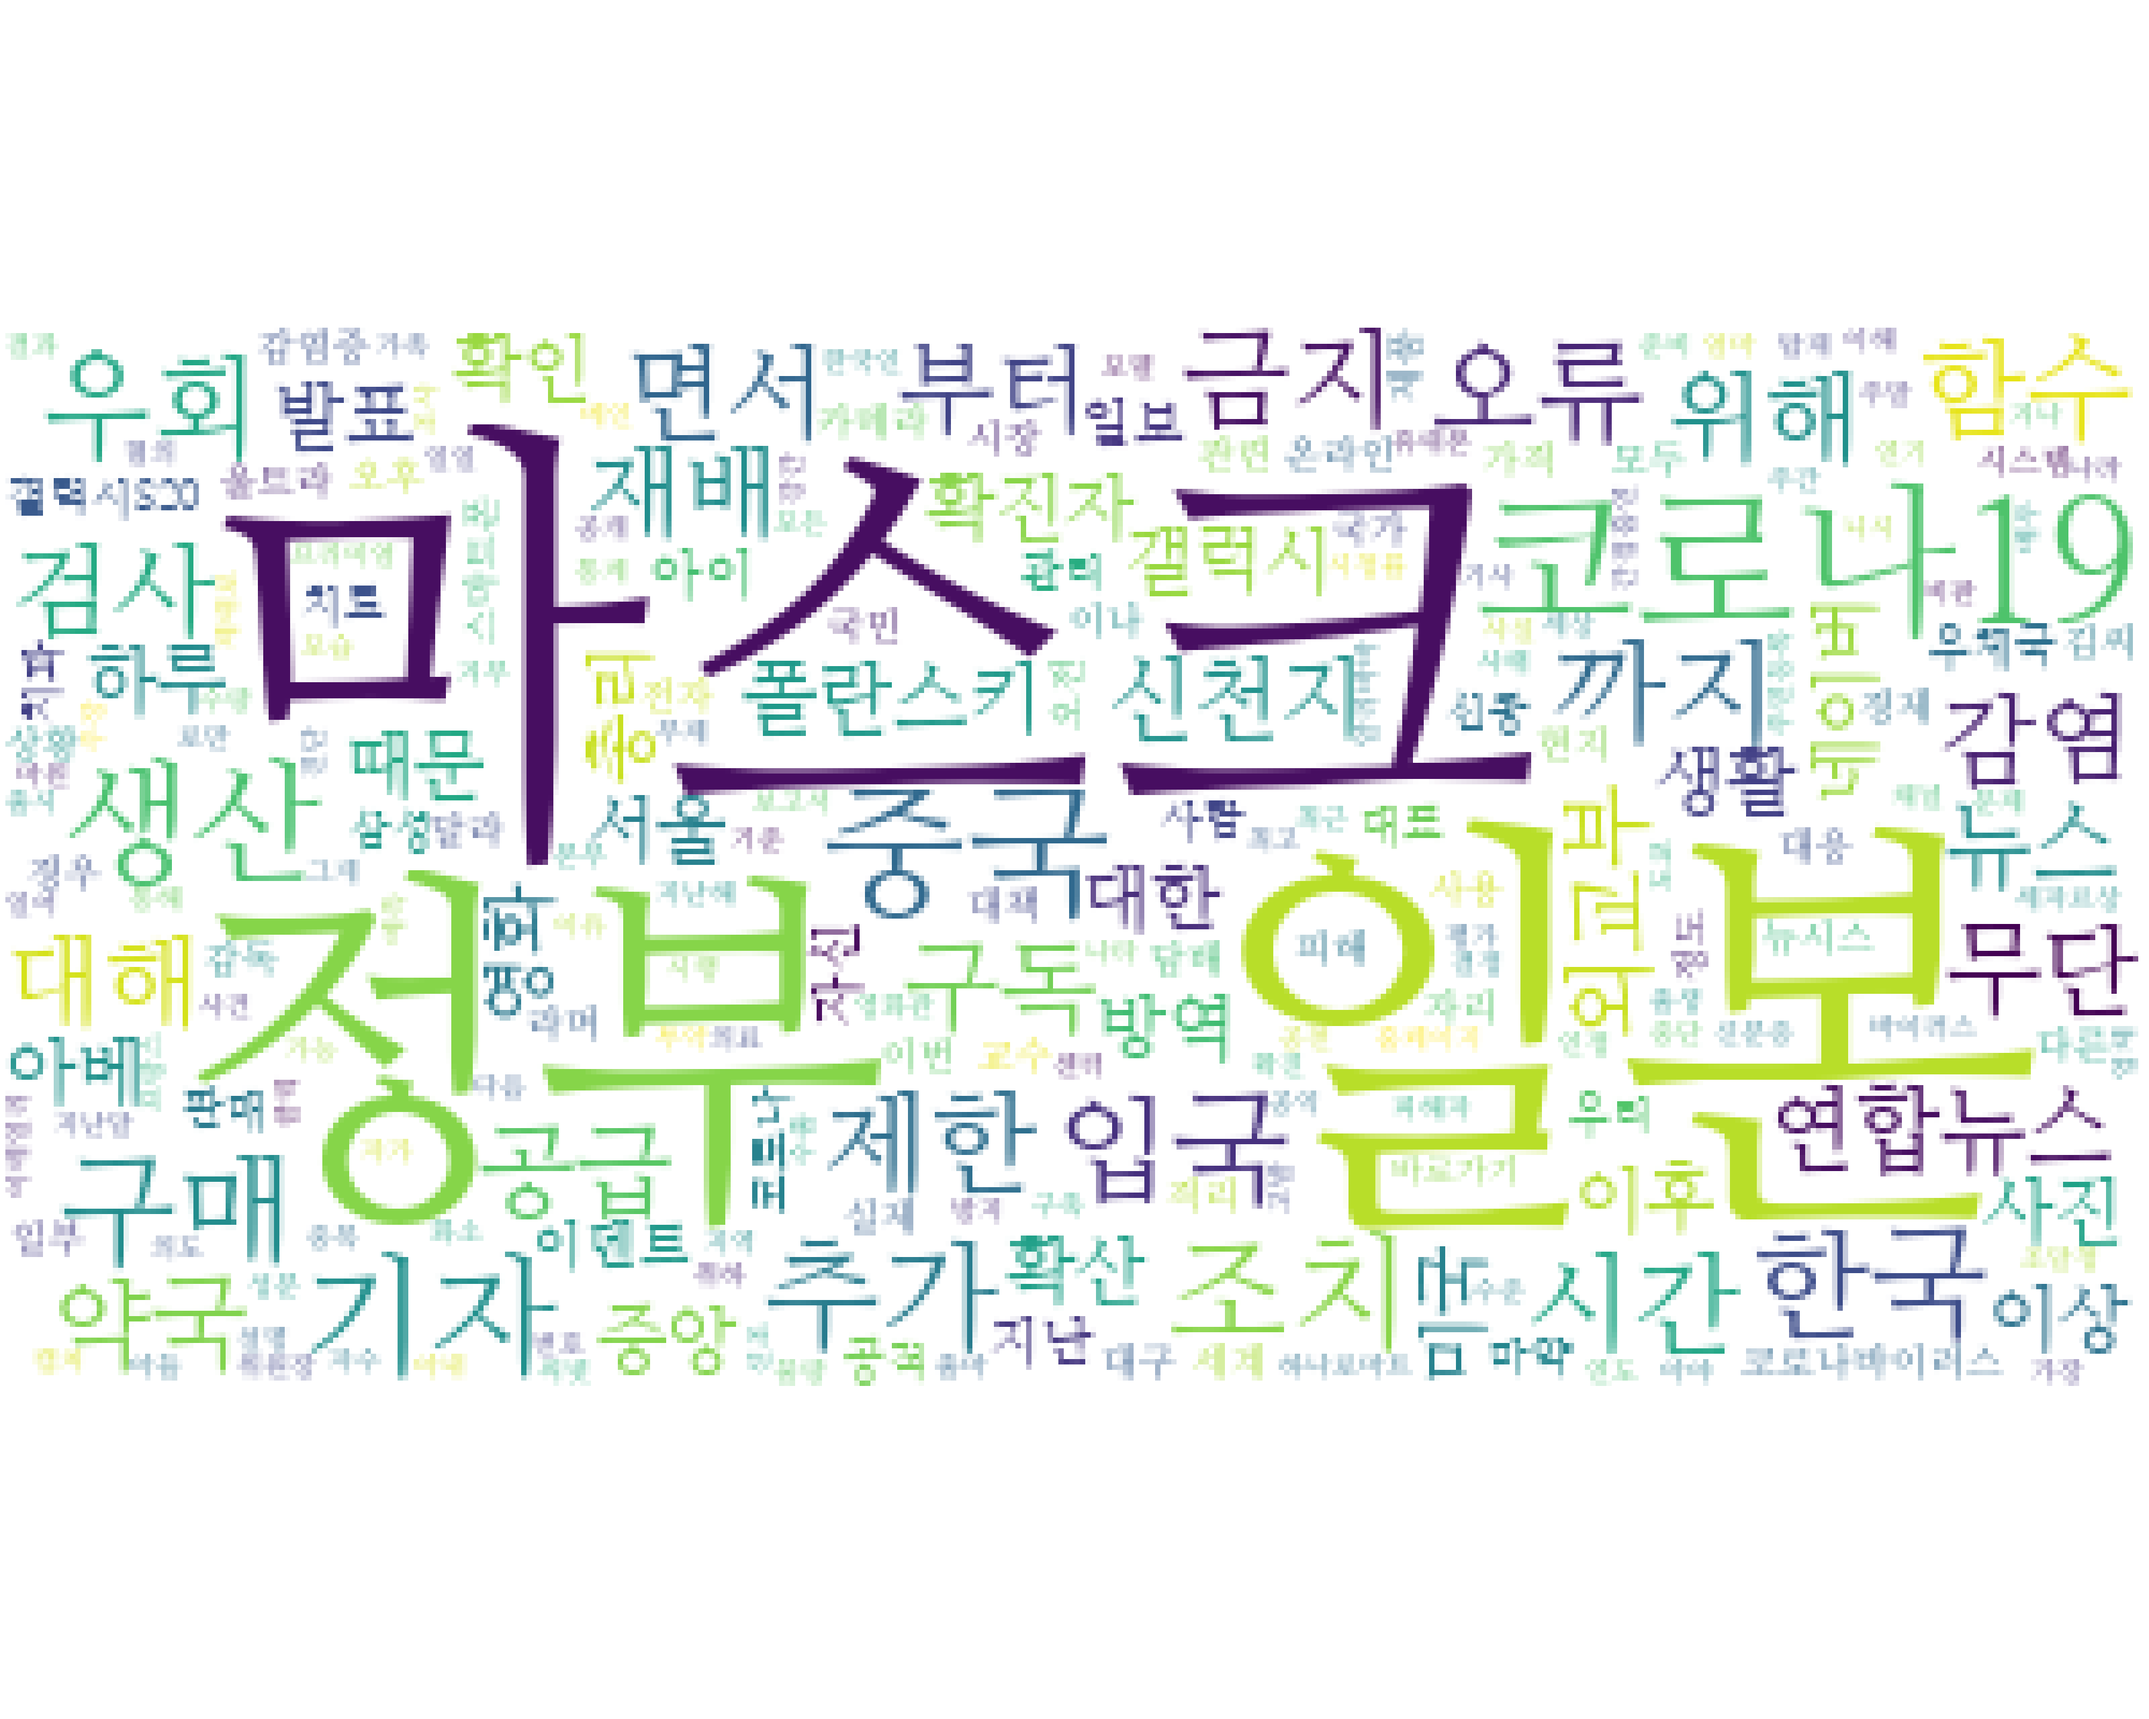
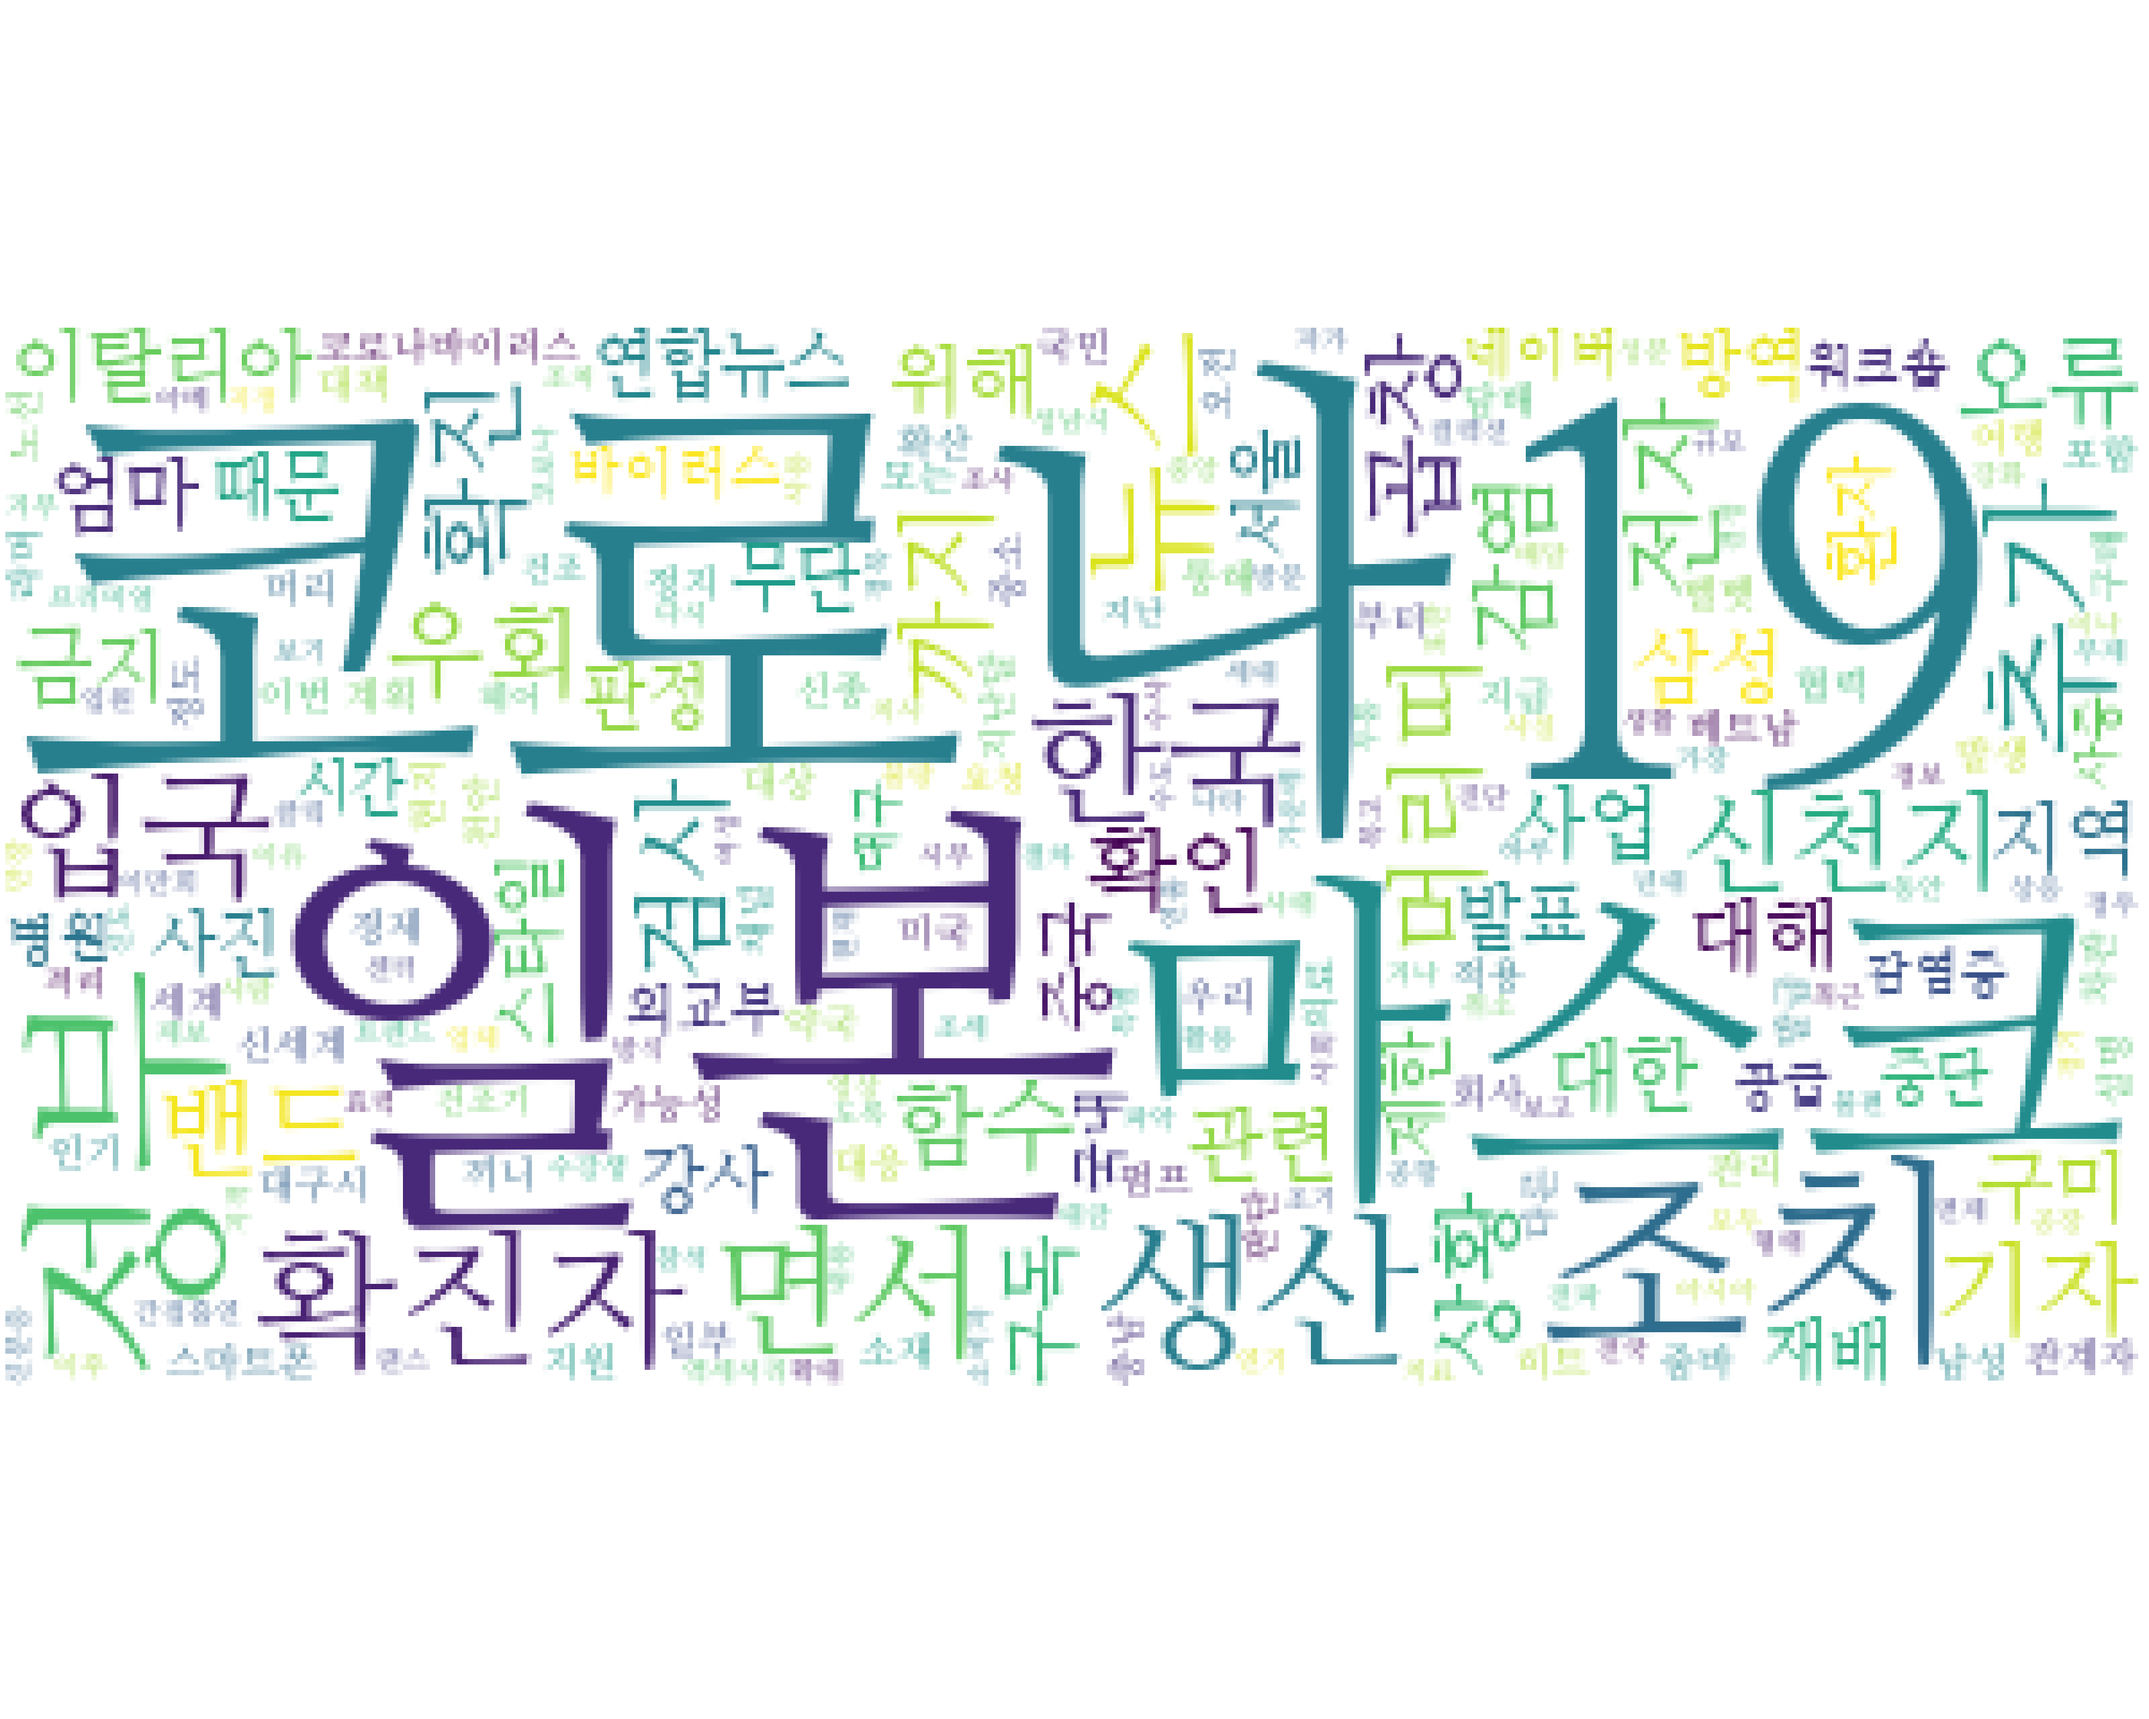
d

diff --git a/templates/about.html b/templates/about.html
@@ -41,6 +41,16 @@
 			</div>
 			<!-- Left Side section end -->
 			<!-- Page start -->
+			<h3> Profile </h3>
+			<div class="card" style="width:500px">
+			  <img class="card-img-top" src="static/img/about/lyt2.jpg" alt="Card image">
+			  <div class="card-img-overlay">
+				<h4 class="card-title">임 영택</h4>
+				<p class="card-text">데이터분석</p>
+				<a href="#" class="btn btn-primary">See Profile</a>
+			  </div>
+			</div>
+			<br>
 
 			<h3> Profile </h3>
 			<div class="card" style="width:500px">
@@ -52,6 +62,7 @@
 			  </div>
 			</div>
 		<br>
+
 			<h3> Profile </h3>
 			<div class="card" style="width:500px">
 			  <img class="card-img-top" src="static/img/about/hdy.jpg" alt="Card image">
@@ -63,16 +74,7 @@
 			</div>
 
 		<br>
-			<h3> Profile </h3>
-			<div class="card" style="width:500px">
-			  <img class="card-img-top" src="static/img/about/lyt2.jpg" alt="Card image">
-			  <div class="card-img-overlay">
-				<h4 class="card-title">임 영택</h4>
-				<p class="card-text">데이터분석</p>
-				<a href="#" class="btn btn-primary">See Profile</a>
-			  </div>
-			</div>
-			<br>
+
 <!--						<div class="page-section">-->
 <!--				<div class="hero-section">-->
 <!--					<div class="hero-scroll">-->

diff --git a/templates/analysis/daum.html b/templates/analysis/daum.html
@@ -32,11 +32,19 @@
 
 					<div class="blog-post-item">
 						<div class="post-date">
+							<h3>07</h3>
+							<p>03<br>2020</p>
+						</div>
+						<img src="static/img/wordcloud/daum/daum_20200307.png" border="0" width="600" height="400"/>
+					<p> 다음뉴스 랭킹 50위까지입니다. 20200307</p>
+
+					<div class="blog-post-item">
+						<div class="post-date">
 							<h3>06</h3>
 							<p>03<br>2020</p>
 						</div>
 						<img src="static/img/wordcloud/daum/daum_20200306.png" border="0" width="600" height="400"/>
-					<p> 다음뉴스 랭킹 50위까지입니다. 20200304</p>
+					<p> 다음뉴스 랭킹 50위까지입니다. 20200306</p>
 
 					<div class="blog-post-item">
 						<div class="post-date">
@@ -44,7 +52,7 @@
 							<p>03<br>2020</p>
 						</div>
 						<img src="static/img/wordcloud/daum/daum_20200305.png" border="0" width="600" height="400"/>
-					<p> 다음뉴스 랭킹 50위까지입니다. 20200304</p>
+					<p> 다음뉴스 랭킹 50위까지입니다. 20200305</p>
 
 					<div class="blog-post-item">
 						<div class="post-date">

diff --git a/templates/Testing/titanic2.html b/templates/Testing/titanic2.html
@@ -13,8 +13,8 @@
   <strong>나이</strong>          {{age}}<br>
   <strong>티켓 요금</strong>          {{Fare}}<br>
   <strong>승선 위치</strong>          {{embarked}}<br>
-  <strong>이름 (성) </strong>          {{name}}<br>
-  <strong>혼자탑승 or 가족과 탑승</strong>          {{isalone}}<br>
+  <strong>결혼 여부 </strong>          {{name}}<br>
+  <strong>동승 탑승여부 0:alone, 0:together</strong>          {{isalone}}<br>
   <strong> 결과는 </strong>          <h4>{{pa}}</h4>
 
 	<br><br>

diff --git a/templates/analysis/twitter.html b/templates/analysis/twitter.html
@@ -31,6 +31,15 @@
 
 					<div class="blog-post-item">
 							<div class="post-date">
+								<h3>07</h3>
+								<p>03<br>2020</p>
+							</div>
+							<img src="static/img/wordcloud/twitter/twitter_20200307.png" border="0" width="600" height="400"/>
+						<p> 트위터 검색어 : 신천지 연예인 명단 </p>
+					</div>
+
+					<div class="blog-post-item">
+							<div class="post-date">
 								<h3>06</h3>
 								<p>03<br>2020</p>
 							</div>

diff --git a/templates/analysis/naver.html b/templates/analysis/naver.html
@@ -32,6 +32,15 @@
 
 				<div class="blog-post-item">
 						<div class="post-date">
+							<h3>07</h3>
+							<p>03<br>2020</p>
+						</div>
+						<img src="static/img/wordcloud/naver/naver_20200307.png" border="0" width="600" height="400"/>
+					<p> 네이버뉴스중 가장많이본 뉴스 30개 20200307</p>
+				</div>
+
+				<div class="blog-post-item">
+						<div class="post-date">
 							<h3>06</h3>
 							<p>03<br>2020</p>
 						</div>

diff --git a/templates/analysis/corona/corona03.html b/templates/analysis/corona/corona03.html
@@ -32,6 +32,15 @@
 
 				<div class="blog-post-item">
 						<div class="post-date">
+							<h3>07</h3>
+							<p>03<br>2020</p>
+						</div>
+						<img src="static/img/blog/20200307.png" border="0" width="600" height="400"/>
+					<p> 언제까지 증가추세일지.. 마음이 아프네요.. </p>
+					</div>
+
+				<div class="blog-post-item">
+						<div class="post-date">
 							<h3>06</h3>
 							<p>03<br>2020</p>
 						</div>

diff --git a/templates/issue.html b/templates/issue.html
@@ -11,7 +11,7 @@
 					</a>
 					<div class="about-info">
 						<h2>Issue analysis</h2>
-						<p> 현재 이슈 데이터를 통하여 분석하여 드립니다.</p>
+						<p> 현재 이슈 데이터를 분석한 결과입니다.</p>
 					</div>
 					<ul class="contact-info">
 						<li>대한민국</li>

diff --git a/app.py b/app.py
@@ -26,13 +26,12 @@ def titanic2():
             embarked = request.form['embarked']
             name = request.form['name']
             isalone = request.form['isalone']
-            # if len(pclass) == 0 or len(sex) == 0 or len(age) == 0 or len(Fare) == 0 or len(embarked) == 0 or len(name) == 0 or len(isalone) == 0:
-            #     #flash('You were successfully logged in')
-            #     return render_template('Testing/error.html')
-            # else:
-            #pa =
-            pa = test.titanic_m(pclass, sex, age, Fare, embarked, name, isalone)
-            return render_template('Testing/titanic2.html', pclass=pclass, sex=sex, age=age, Fare=Fare, embarked=embarked, name=name, isalone=isalone, pa=pa)
+            if len(pclass) == 0 or len(sex) == 0 or len(age) == 0 or len(Fare) == 0 or len(embarked) == 0 or len(name) == 0 or len(isalone) == 0:
+                #flash('You were successfully logged in')
+                return render_template('Testing/error.html')
+            else:
+                pa = test.titanic_m(pclass, sex, age, Fare, embarked, name, isalone)
+                return render_template('Testing/titanic2.html', pclass=pclass, sex=sex, age=age, Fare=Fare, embarked=embarked, name=name, isalone=isalone, pa=pa)
     except:
         abort(404, description="Resource not found")
     return render_template('Testing/titanic2.html')

diff --git a/test.py b/test.py
@@ -1,7 +1,7 @@
 import app
 import pandas as pd
 from sklearn.externals import joblib
-titanic = joblib.load('model/titanic.pkl')
+
 
 def fare_(Fare):
     if Fare <= 7.91:
@@ -44,7 +44,7 @@ def age_(age):
 
 
 def titanic_m(pclass, sex, age, Fare, embarked, name, isalone):
-
+    titanic = joblib.load('model/titanic.pkl')
     pclass = int(pclass)
     sex = int(sex)
     age = int(age)
@@ -65,9 +65,7 @@ def titanic_m(pclass, sex, age, Fare, embarked, name, isalone):
 
     pred = titanic.predict(qq)
     if pred[0] == 1:
-        print('생존입니다.')
         pa = '생존입니다.'
     else:
-        print('Dead!')
         pa = '사망입니다.'
     return pa
